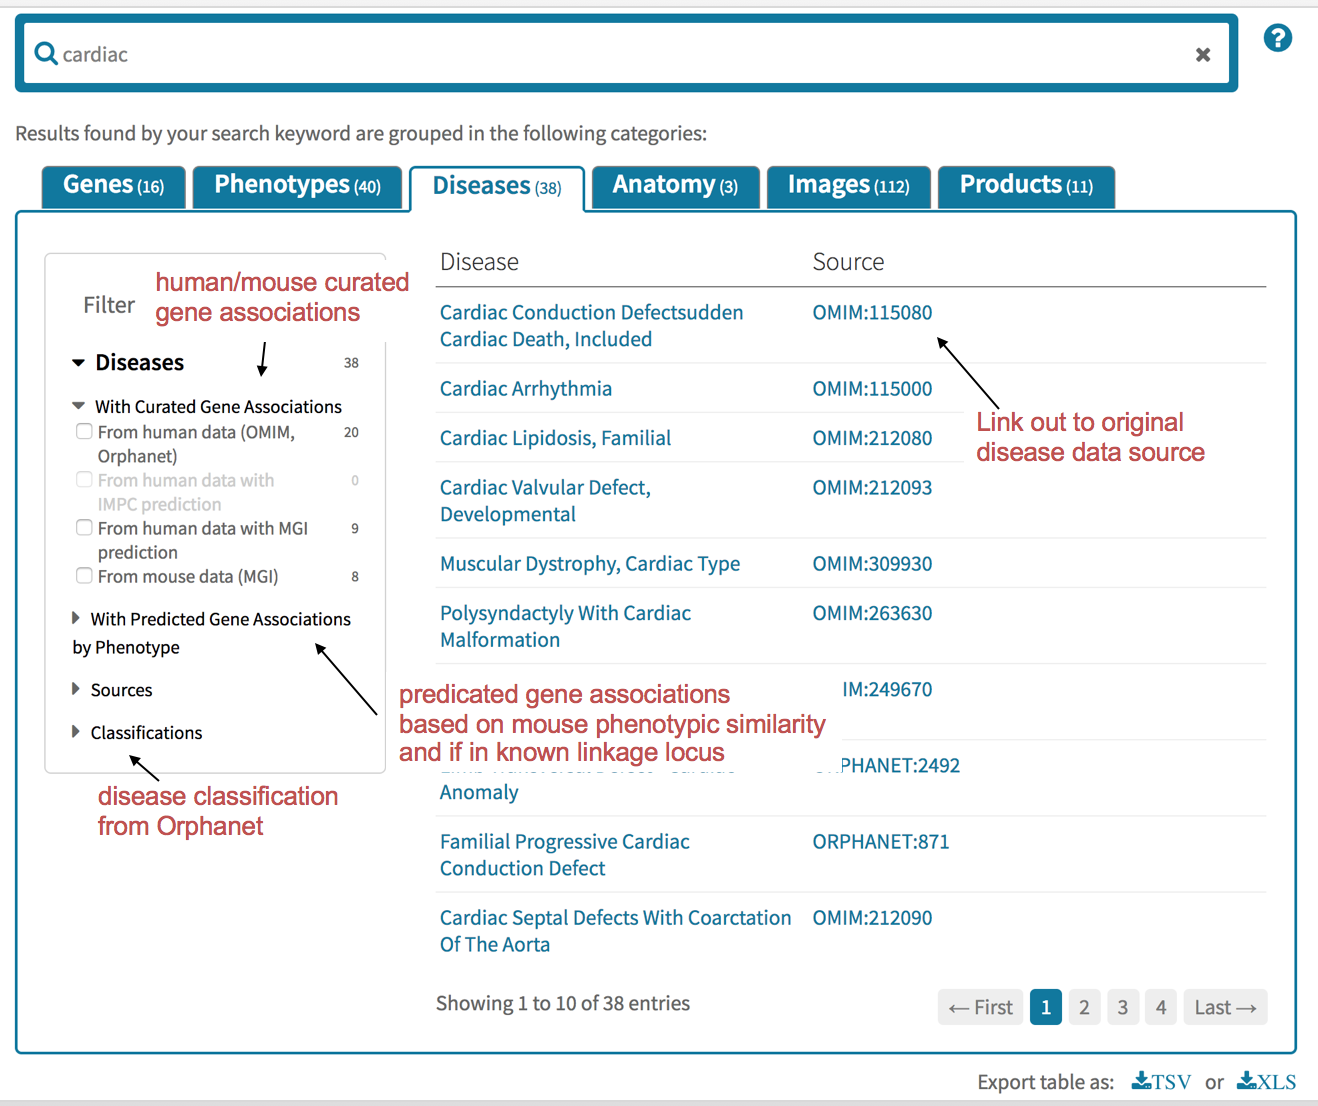
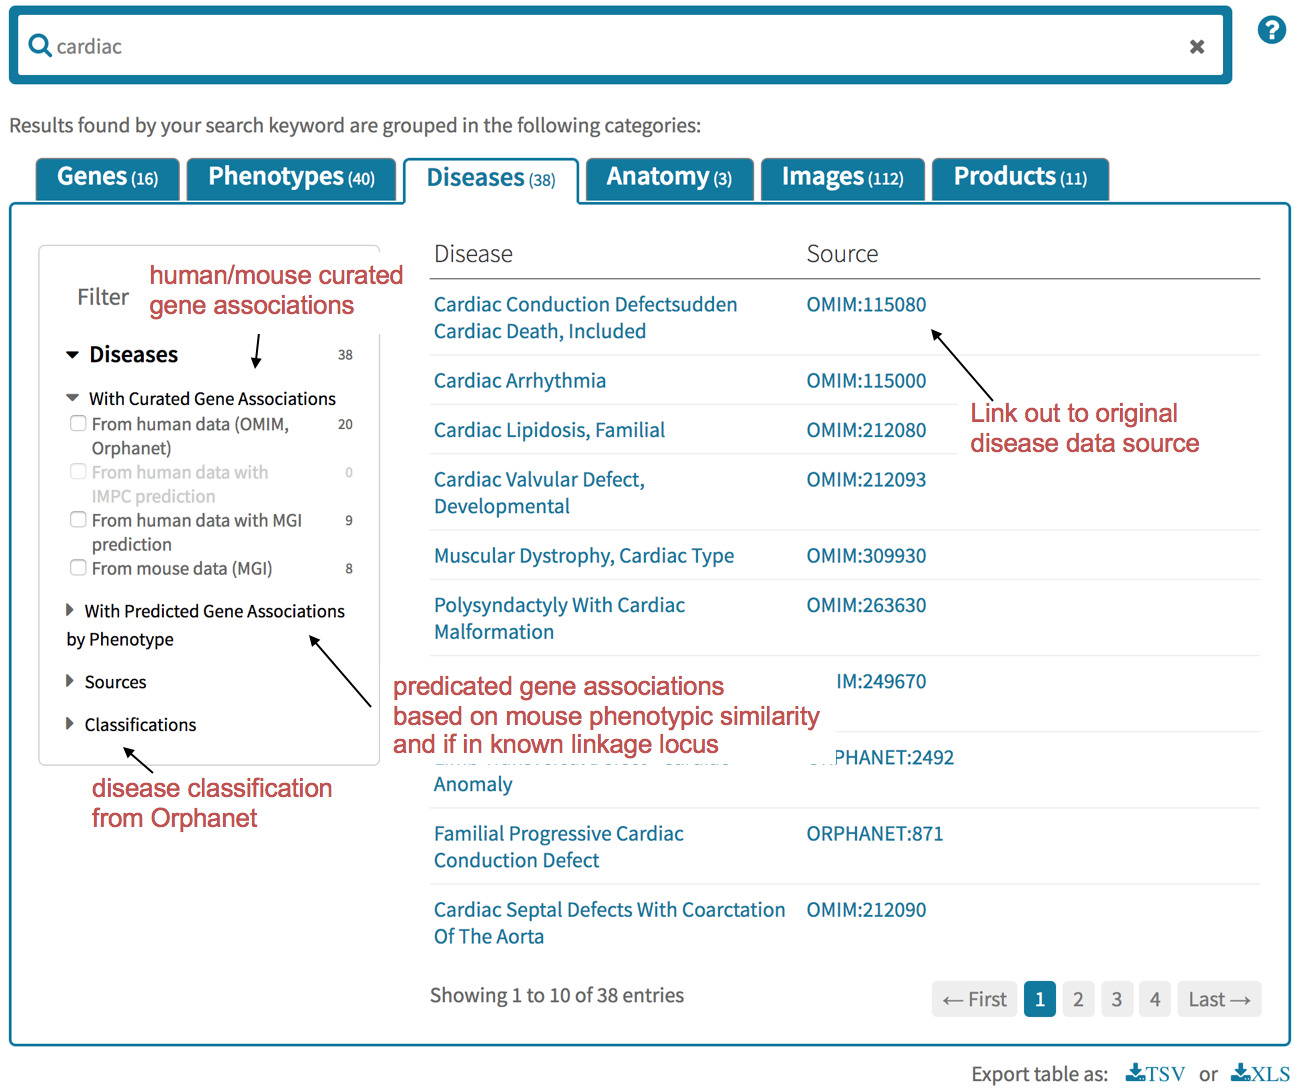
updated search page documentation and screenshots

diff --git a/web/src/main/webapp/resources/css/searchPage.css b/web/src/main/webapp/resources/css/searchPage.css
@@ -24,6 +24,9 @@ a#sdoc {
 	text-decoration: underline;
 	color: rgb(9, 120, 161);
 }
+img {
+	margin-bottom: 20px;
+}
 
 /* facet - general */
 .fblock                                 { position: relative; }
